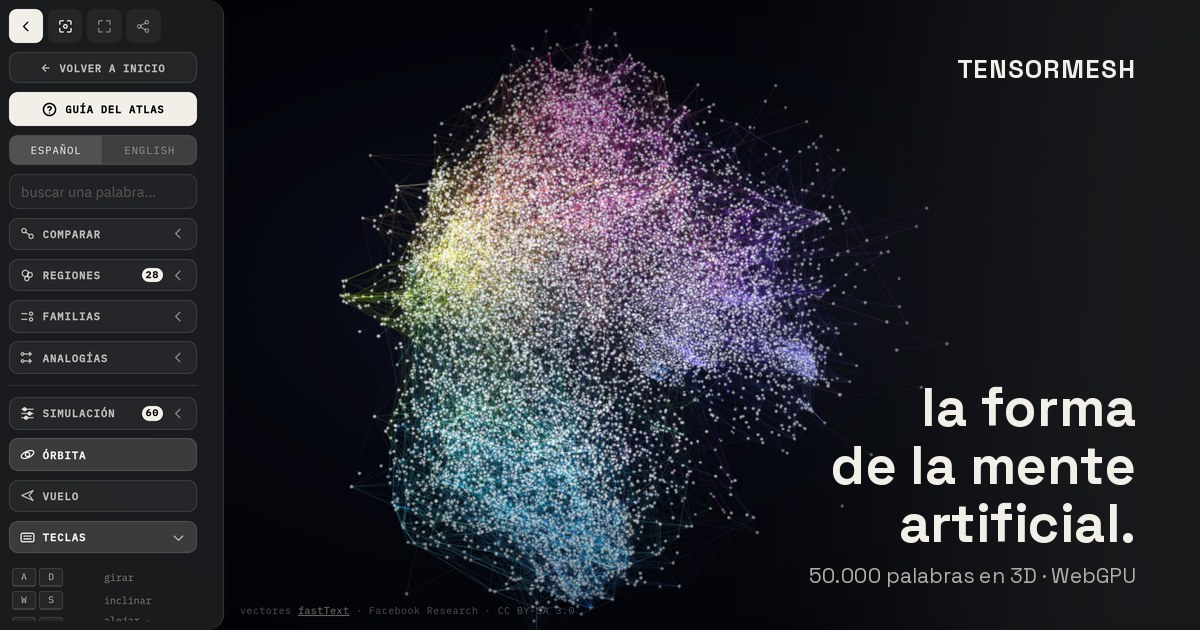
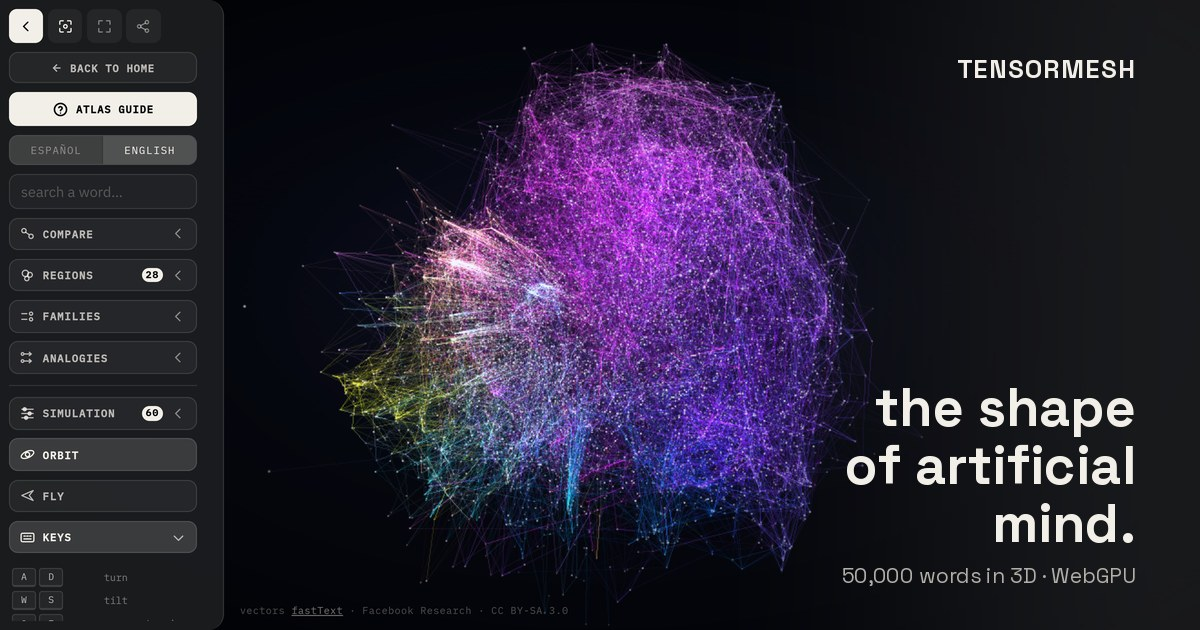
feat(og): brighter mesh and the English atlas in the home card
The card showed the Spanish atlas at the room's own defaults, which are set
so the room can be *used*: a 2 px dot you can actually hit with the mouse,
and a restrained mesh that doesn't bury it. A thumbnail is never used — it
is read at 200 px wide, at a glance — and there the mesh is the subject.

- `test/shot.mjs` gains `SHOT_TUNE`: it opens the simulation drawer, moves
  the `Controls.tsx` sliders through React's native value setter (assigning
  `.value` on a controlled input fires nothing), and folds the drawer back
  before the shutter. The card is now `minPx=1, edgeBright=1.05,
  minEdgePx=0.4`.
- The capture is the English atlas (`?lang=en`), and the headline on the
  card is the English one from the landing copy.
- Two strings were hardcoded Spanish in `Galaxy.tsx` and showed up in the
  English UI: the back-to-home button and the word "vectores" that opens the
  fastText attribution. The attribution is the project's one legal
  requirement, so it has to read in the language everything else reads in.

Claude-Session: https://claude.ai/code/session_01Qi4pvJcnS2RPG5TK4AVgCB

diff --git a/web/src/components/Galaxy.tsx b/web/src/components/Galaxy.tsx
@@ -42,6 +42,11 @@ const COPY = {
         hint: "pasa el ratón sobre un punto · clic para abrirlo",
         hintOut: "clic en el vacío o esc para soltarla",
         shut: "cerrar", esc: "esc", drop: "soltar",
+        // Estos dos se quedaron escritos a mano en el JSX y en inglés salían
+        // en español — y uno de los dos es la atribución, que es el único
+        // requisito legal del proyecto: tiene que leerse en el idioma en el
+        // que se está leyendo todo lo demás.
+        back: "Volver a Inicio", vecs: "vectores",
         held: (w: string) => `mirando «${w}»`,
         heldPath: (a: string, b: string) => `camino «${a}» → «${b}»`,
         heldGroup: (k: number) => `${k} palabras resaltadas`,
@@ -140,6 +145,7 @@ const COPY = {
         hint: "hover a dot · click to open it",
         hintOut: "click empty space or press esc to let it go",
         shut: "close", esc: "esc", drop: "let go",
+        back: "Back to home", vecs: "vectors",
         held: (w: string) => `looking at “${w}”`,
         heldPath: (a: string, b: string) => `path “${a}” → “${b}”`,
         heldGroup: (k: number) => `${k} words highlighted`,
@@ -1258,7 +1264,7 @@ export default function GalaxyView({ lang: initial = "es", initialView }: { lang
             <svg viewBox="0 0 24 24" width="12" height="12" fill="none" stroke="currentColor" strokeWidth="2.5">
               <path d="M19 12H5M12 19l-7-7 7-7" />
             </svg>
-            <span>Volver a Inicio</span>
+            <span>{t.back}</span>
           </a>
           {/* El botón ancho del cajón abre la **guía**, no la presentación: es
               el único sitio con espacio para escribir la palabra, y la
@@ -1587,7 +1593,7 @@ export default function GalaxyView({ lang: initial = "es", initialView }: { lang
 
       {/* CC BY-SA 3.0 exige atribución: es el único requisito legal del proyecto */}
       <p className="attrib">
-        vectores{" "}
+        {t.vecs}{" "}
         <a href="https://fasttext.cc/docs/en/crawl-vectors.html">fastText</a>{" "}
         · Facebook Research · CC BY-SA 3.0
       </p>

diff --git a/CLAUDE.md b/CLAUDE.md
@@ -647,6 +647,15 @@ Detalles que no son obvios:
   ventana y recortar un 16:9 después lo parte. Con `SHOT_GPU=1` el navegador
   levanta WebGPU sobre la Vega y la captura sale del motor bueno, no del
   respaldo WebGL.
+- **La miniatura no usa los valores de casa del render** (`SHOT_TUNE`, que
+  mueve los mandos de `Controls.tsx` como los movería una mano). Los de casa
+  están pensados para que la sala se pueda *usar*: punto de 2 px, que es lo que
+  se acierta con el ratón, y malla contenida para que no tape los puntos. Una
+  miniatura no se usa: se mira a 200 px de ancho y de un vistazo, y ahí lo que
+  hay que ver es la nebulosa. `minPx=1, edgeBright=1.05, minEdgePx=0.4` cambia
+  el punteado por una malla encendida. El desplegable de simulación hay que
+  abrirlo antes —los `input` no están en el DOM plegados— y volver a cerrarlo
+  antes de disparar.
 - **`og:image` absoluta, con `width`/`height` y por debajo de 300 KB.** Las
   rutas relativas no las resuelve nadie, sin medidas varios clientes se rinden
   antes de pedirla, y WhatsApp deja de mostrar la miniatura al pasarse de peso.
